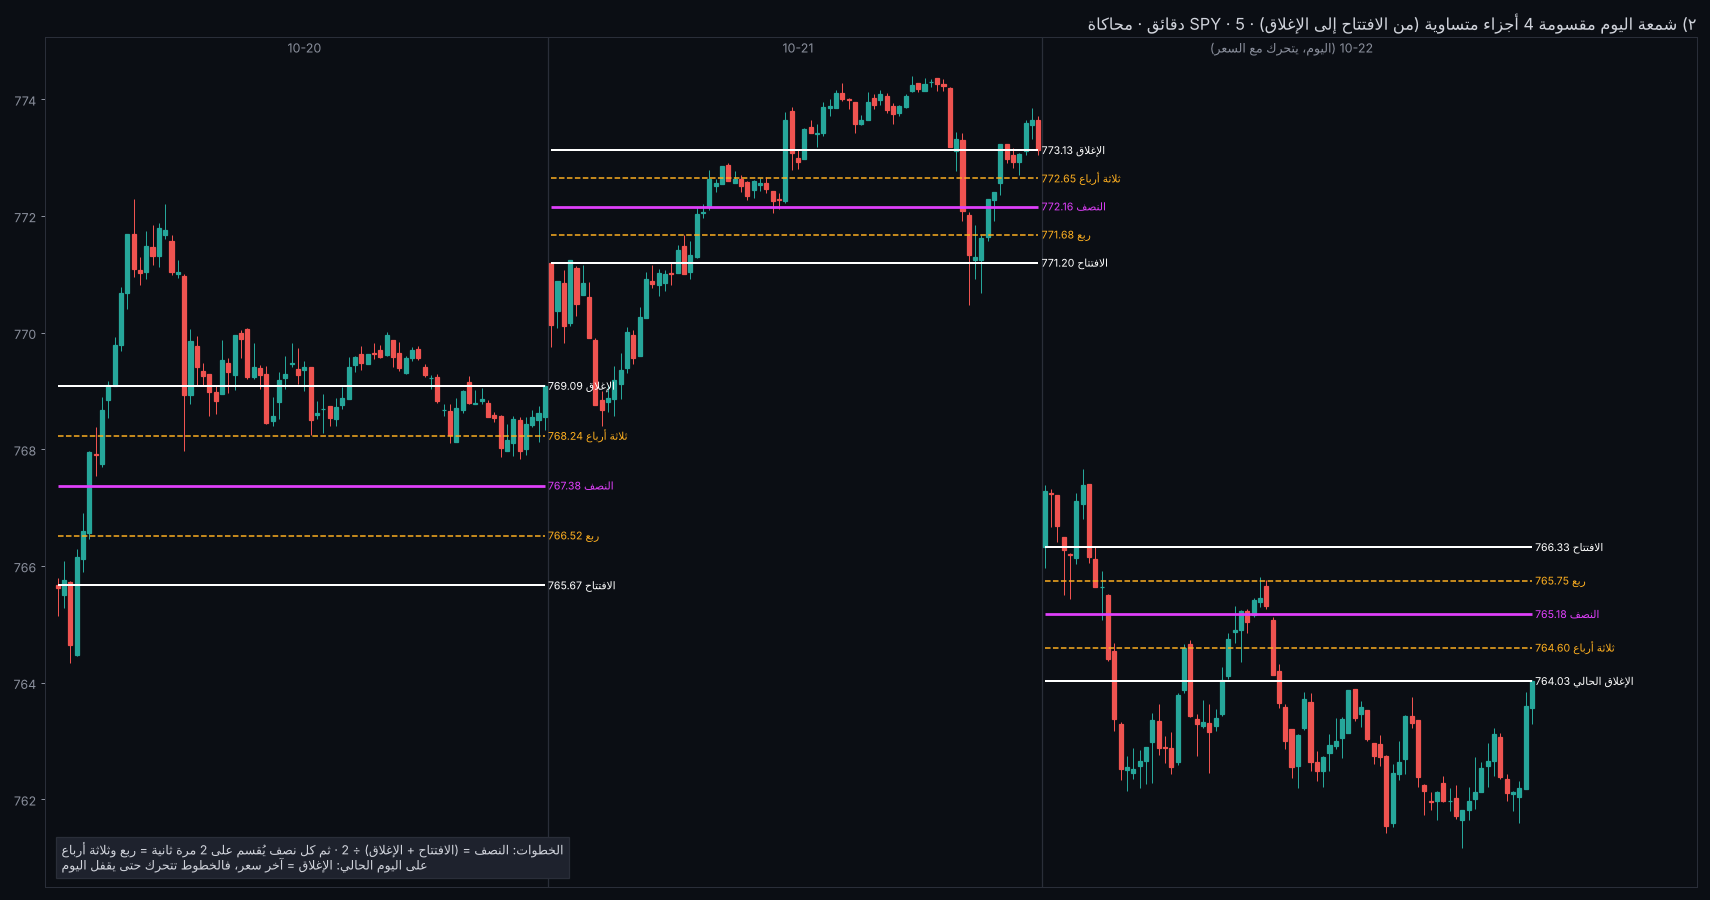
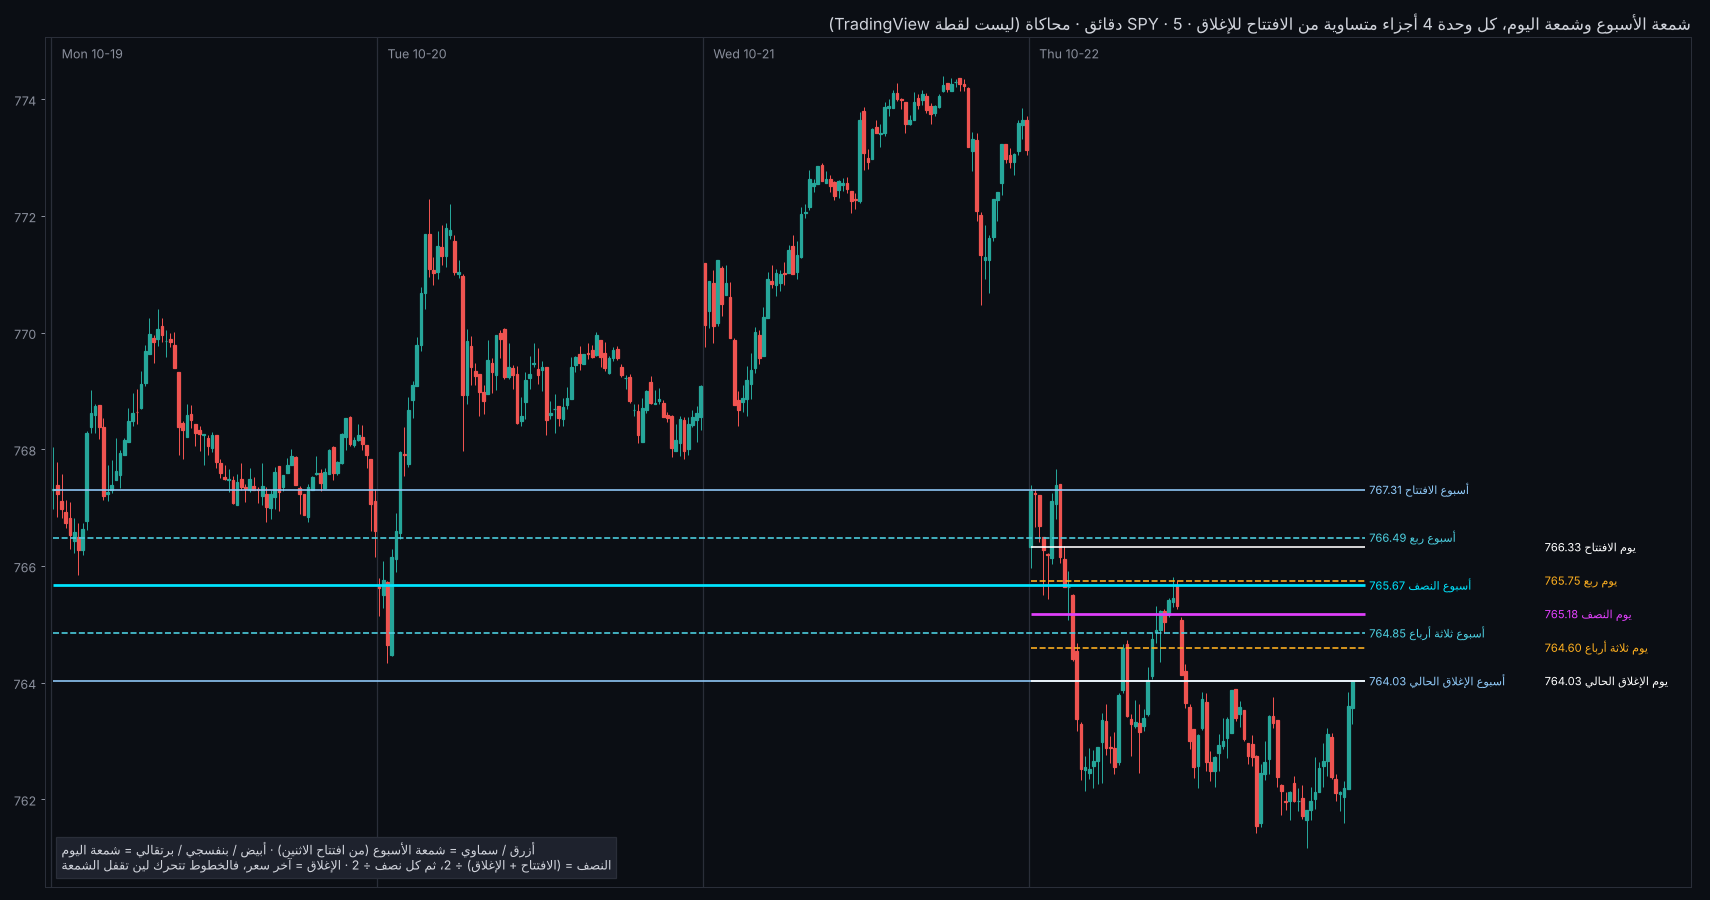
Pine: current day and current week candles split into four equal parts (open, 1/4, 1/2, 3/4, close); preview
Claude-Session: https://claude.ai/code/session_01LqVdPjKMY9JTEX1zUaxwh2

diff --git a/reports/make_weekly_quarters_preview.py b/reports/make_weekly_quarters_preview.py
@@ -1,7 +1,5 @@
 """Two proposals for approval, drawn on real SPY data (Alpaca 5m, Apr 2025 - Oct 2026):
-1) weekly whale ranges: same rule as the daily ones but on weekly candles (first 4 weeks set top / bottom unless
-   wider than 5x weekly ATR; first weekly close outside ends the range), hidden 200-row profile from 60m bars.
-2) today's candle in 4 equal parts: open, 1/4, 1/2 (= (open+close)/2), 3/4, current close."""
+the current week's candle and today's candle, each in 4 equal parts from open to close."""
 import sys, pathlib; sys.path.insert(0, str(pathlib.Path(__file__).resolve().parent.parent))
 import numpy as np, matplotlib; matplotlib.use("Agg")
 import matplotlib.pyplot as plt
@@ -19,40 +17,23 @@ def candles(ax, df, x0=0):
         ax.vlines(x0 + i, r.low, r.high, color=col, lw=.8); ax.add_patch(Rectangle((x0 + i - .32, min(r.open, r.close)), .64, max(abs(r.close - r.open), 1e-3), color=col, zorder=3))
 def style(ax, t):
     ax.set_facecolor(BG); ax.tick_params(colors=MUT); [s.set_color(GR) for s in ax.spines.values()]; ax.set_title(t, color=TX, fontsize=13, loc="right")
-# ---------- 1) weekly ranges on a daily chart ----------
-done, state = daily_ranges(wk, 4, 5.0)
-r0 = state[-1][0]; ranges = [(a, b, False) for a, b, _ in done][-2:] + ([(r0, len(wk), True)] if len(wk) - r0 >= 4 else [])
-fig, ax = plt.subplots(figsize=(19, 10), facecolor=BG); style(ax, "١) مناطق الحيتان الأسبوعية على شارت يومي · SPY · محاكاة بايثون (ليست لقطة TradingView)")
-dix = {d.normalize(): i for i, d in enumerate(day.index)}; candles(ax, day); N = len(day)
-for a, b, live in ranges:
-    t0 = wk.index[a]; t1 = wk.index[b] if b < len(wk) else day.index[-1] + np.timedelta64(1, "D")
-    res = range_levels(h60, t0, t1)
-    if not res: continue
-    pk, (poc, vah, val) = res; x0 = min(i for d, i in dix.items() if d >= t0); x1 = max(i for d, i in dix.items() if d < t1)
-    lo, hi = h60[(h60.index >= t0) & (h60.index < t1)].low.min(), h60[(h60.index >= t0) & (h60.index < t1)].high.max()
-    ax.add_patch(Rectangle((x0 - .5, lo), x1 - x0 + 1, hi - lo, fc="#00bcd410", ec="#00bcd4", ls="--", lw=1.4, zorder=1))
-    ax.text(x0, hi, " منطقة أسبوعية قيد التكوين" if live else " منطقة أسبوعية مكتملة", color="#00bcd4", fontsize=10, va="bottom")
-    for y in pk: ax.hlines(y, x0 - .5, N + 8, color="#1e88e5", lw=1, zorder=2)
-    ax.hlines(poc, x0 - .5, N + 8, color="#ff3b3b", lw=3, zorder=2); ax.hlines([vah, val], x0 - .5, N + 8, color="#00bcd4", lw=2, zorder=2)
-    for y, t, c in ((poc, "POC", "#ff3b3b"), (vah, "VAH", "#00bcd4"), (val, "VAL", "#00bcd4")): ax.text(x0 - 1, y, f"{t} {y:.2f}", color=c, fontsize=9, ha="right", va="center", weight="bold")
-ticks = list(range(0, N, 21)); ax.set_xticks(ticks); ax.set_xticklabels([day.index[i].strftime("%Y-%m") for i in ticks], color=MUT)
-xs = min(i for d, i in dix.items() if d >= wk.index[ranges[0][0]]) - 15; ax.set_xlim(max(-1, xs), N + 10)
-lo_, hi_ = day.low.iloc[max(0, xs):].min(), day.high.iloc[max(0, xs):].max(); ax.set_ylim(lo_ - (hi_ - lo_) * .05, hi_ + (hi_ - lo_) * .05)
-ax.text(.01, .02, "أزرق = أعمدة الحيتان الأسبوعية · سماوي = VAH / VAL الأسبوعي · أحمر عريض = POC الأسبوعي\n(لون مختلف عن اليومي البنفسجي/البرتقالي حتى تفرّق بينهم)", color=TX, fontsize=10, transform=ax.transAxes, bbox=dict(fc="#1e222d", ec=GR))
-fig.tight_layout(); fig.savefig(ROOT / "reports/styles/Z1_weekly_ranges.png", dpi=90, facecolor=BG)
-# ---------- 2) daily candle in 4 parts on a 5m chart ----------
-days = sorted(set(raw.index.normalize()))[-3:]; w = raw[raw.index >= days[0]]
-fig, ax = plt.subplots(figsize=(19, 10), facecolor=BG); style(ax, "٢) شمعة اليوم مقسومة 4 أجزاء متساوية (من الافتتاح إلى الإغلاق) · SPY · 5 دقائق · محاكاة")
-candles(ax, w); x = 0
-for k, d in enumerate(days):
-    g = w[w.index.normalize() == d]; n = len(g); o, c = g.open.iat[0], g.close.iat[-1]; live = k == len(days) - 1
-    for f, lbl, col, lw in ((0, "الافتتاح", "#ffffff", 1.6), (.25, "ربع", "#ffb020", 1.2), (.5, "النصف", "#e040fb", 2.2), (.75, "ثلاثة أرباع", "#ffb020", 1.2), (1, "الإغلاق" + (" الحالي" if live else ""), "#ffffff", 1.6)):
-        y = o + f * (c - o); ax.hlines(y, x, x + n - 1, color=col, lw=lw, ls="-" if f in (0, 1, .5) else "--", zorder=4)
-        ax.text(x + n - 1 + .5, y, f"{lbl} {y:.2f}", color=col, fontsize=8.5, va="center", zorder=5)
-    ax.text(x + n / 2, w.high.max() + .4, d.strftime("%m-%d") + (" (اليوم، يتحرك مع السعر)" if live else ""), color=MUT, ha="center", fontsize=10)
-    if k: ax.axvline(x - .5, color=GR, lw=1)
-    x += n
-ax.set_xlim(-2, len(w) + 25); ax.set_xticks([])
-ax.text(.01, .02, "الخطوات: النصف = (الافتتاح + الإغلاق) ÷ 2 · ثم كل نصف يُقسم على 2 مرة ثانية = ربع وثلاثة أرباع\nعلى اليوم الحالي: الإغلاق = آخر سعر، فالخطوط تتحرك حتى يقفل اليوم", color=TX, fontsize=10, transform=ax.transAxes, bbox=dict(fc="#1e222d", ec=GR))
+# ---------- current day and current week, each in 4 equal parts (open -> close), on a 5m chart ----------
+w = raw[raw.index >= raw.index[-1].normalize() - np.timedelta64(raw.index[-1].weekday(), "D")]
+today = w[w.index.normalize() == w.index[-1].normalize()]; N = len(w); c = w.close.iat[-1]
+fig, ax = plt.subplots(figsize=(19, 10), facecolor=BG)
+style(ax, "شمعة الأسبوع وشمعة اليوم، كل وحدة 4 أجزاء متساوية من الافتتاح للإغلاق · SPY · 5 دقائق · محاكاة (ليست لقطة TradingView)")
+candles(ax, w)
+names = ("الافتتاح", "ربع", "النصف", "ثلاثة أرباع", "الإغلاق الحالي")
+def quarters(o, x0, tag, cEnd, cMid, cQ, dy):
+    for k in range(5):
+        y = o + (c - o) * k / 4; col = cMid if k == 2 else cEnd if k in (0, 4) else cQ
+        ax.hlines(y, x0, N + 2, color=col, lw=2.2 if k == 2 else 1.3, ls="--" if k in (1, 3) else "-", zorder=4)
+        ax.text(N + 3 + dy, y, f"{tag} {names[k]} {y:.2f}", color=col, fontsize=9, va="center", zorder=5)
+quarters(w.open.iat[0], 0, "أسبوع", "#90caf9", "#00e5ff", "#4dd0e1", 0)
+quarters(today.open.iat[0], N - len(today), "يوم", "#ffffff", "#e040fb", "#ffb020", 42)
+days = w.index.normalize(); st = np.r_[0, np.flatnonzero(days[1:] != days[:-1]) + 1]
+for s_ in st: ax.axvline(s_ - .5, color=GR, lw=1); ax.text(s_ + 2, w.high.max() + .3, w.index[s_].strftime("%a %m-%d"), color=MUT, fontsize=10)
+ax.set_xlim(-2, N + 80); ax.set_xticks([])
+ax.text(.01, .02, "أزرق / سماوي = شمعة الأسبوع (من افتتاح الاثنين) · أبيض / بنفسجي / برتقالي = شمعة اليوم\nالنصف = (الافتتاح + الإغلاق) ÷ 2، ثم كل نصف ÷ 2 · الإغلاق = آخر سعر، فالخطوط تتحرك لين تقفل الشمعة",
+        color=TX, fontsize=10, transform=ax.transAxes, bbox=dict(fc="#1e222d", ec=GR))
 fig.tight_layout(); fig.savefig(ROOT / "reports/styles/Z2_daily_quarters.png", dpi=90, facecolor=BG)
-print("weekly ranges:", [(str(wk.index[a].date()), live) for a, b, live in ranges])
